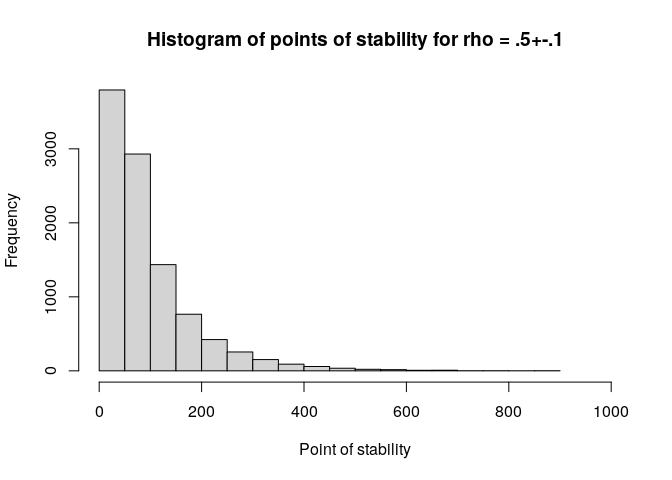
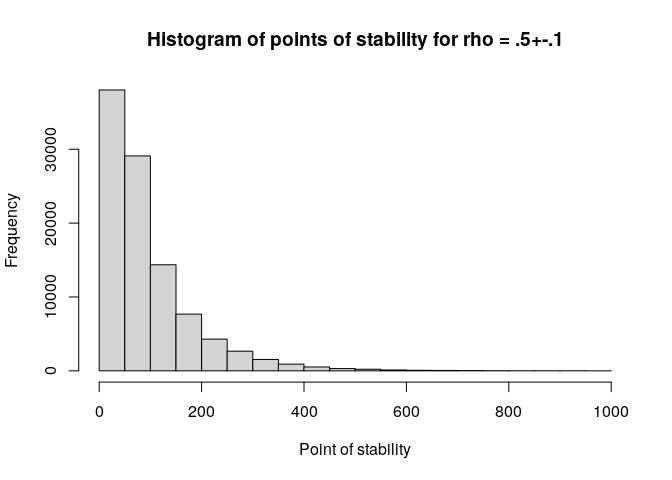
update readme

diff --git a/README.md b/README.md
@@ -88,8 +88,9 @@ set a seed for reproducibility:
 
 ``` r
 library(fastpos)
-#RNGkind("L'Ecuyer-CMRG")
-set.seed(19950521)
+RNGkind("L'Ecuyer-CMRG")
+set.seed(20220812)
+parallel::mc.reset.stream()
 ```
 
 In most cases you will just need the function **find_critical_pos**
@@ -97,33 +98,33 @@ which will give you the critical point of stability for your specific
 parameters.
 
 Let us reproduce Schönbrodt and Perugini’s quite famous and oft-cited
-table of the critical points of stability for a precision of 0.1. We
-reduce the number of studies to 10k and use multicore support (only
-works under GNU/Linux) so that it runs fairly quickly.
+table of the critical points of stability for a precision of 0.1. We set
+the number of studies to 100k and use multicore support (only works
+under GNU/Linux) so that it runs fairly quickly.
 
 ``` r
 n_cores <- parallel::detectCores()
 find_critical_pos(rho = seq(.1, .7, .1), sample_size_max = 1e3,
-                  n_studies = 10e3, n_cores = n_cores)
+                  n_studies = 1e5, n_cores = n_cores)
 #> Warning in find_critical_pos(rho = seq(0.1, 0.7, 0.1), sample_size_max = 1000, : 
-#> 40 simulation[s] did not reach the corridor of stability.
+#> 448 simulation[s] did not reach the corridor of stability.
 #> Increase sample_size_max and rerun the simulation.
 #>   rho_pop pos.80% pos.90% pos.95% sample_size_min sample_size_max lower_limit
-#> 1     0.1   249.0     361  479.00              20            1000         0.0
-#> 2     0.2   238.2     342  446.00              20            1000         0.1
-#> 3     0.3   214.0     309  411.00              20            1000         0.2
-#> 4     0.4   178.0     257  341.00              20            1000         0.3
-#> 5     0.5   143.0     204  271.00              20            1000         0.4
-#> 6     0.6   105.0     151  201.00              20            1000         0.5
-#> 7     0.7    65.0      94  126.05              20            1000         0.6
+#> 1     0.1   257.0     362     478              20            1000         0.0
+#> 2     0.2   244.2     355     467              20            1000         0.1
+#> 3     0.3   213.0     306     403              20            1000         0.2
+#> 4     0.4   182.0     265     352              20            1000         0.3
+#> 5     0.5   142.0     217     288              20            1000         0.4
+#> 6     0.6   108.0     159     209              20            1000         0.5
+#> 7     0.7    64.0     100     134              20            1000         0.6
 #>   upper_limit n_studies n_not_breached precision_absolute precision_relative
-#> 1         0.2     10000             23                0.1                 NA
-#> 2         0.3     10000             13                0.1                 NA
-#> 3         0.4     10000              3                0.1                 NA
-#> 4         0.5     10000              1                0.1                 NA
-#> 5         0.6     10000              0                0.1                 NA
-#> 6         0.7     10000              0                0.1                 NA
-#> 7         0.8     10000              0                0.1                 NA
+#> 1         0.2     1e+05            192                0.1                 NA
+#> 2         0.3     1e+05            192                0.1                 NA
+#> 3         0.4     1e+05              0                0.1                 NA
+#> 4         0.5     1e+05             64                0.1                 NA
+#> 5         0.6     1e+05              0                0.1                 NA
+#> 6         0.7     1e+05              0                0.1                 NA
+#> 7         0.8     1e+05              0                0.1                 NA
 ```
 
 The results are very close to Schönbrodt and Perugini’s table (see
@@ -144,7 +145,7 @@ right?). A rawish approach would be to create a population with
 pop <- create_pop(0.5, 1e6)
 pos <- simulate_pos(x_pop = pop[,1],
                     y_pop = pop[,2],
-                    n_studies = 1e4,
+                    n_studies = 1e5,
                     sample_size_min = 20,
                     sample_size_max = 1e3,
                     replace = T,
@@ -159,8 +160,8 @@ hist(pos, xlim = c(0, 1e3), xlab = c("Point of stability"),
 
 ``` r
 quantile(pos, c(.8, .9, .95), na.rm = T)
-#>   80%   90%   95% 
-#> 146.0 209.1 280.0
+#> 80% 90% 95% 
+#> 144 208 276
 ```
 
 Note that no warning message appears if the corridor is not reached, but
@@ -204,15 +205,14 @@ and the rest of the program worked as for the singlethreaded version.
 
 Unfortunately this solution did not bring any substantial speed
 benefits. Since version 0.5.0 I switched to the parallel package and
-pbapply. This means there is no multicore support for Windows but the
-implementation is simple and shows speed benefits when the number of
-studies or the maximum sample size is large.
+pbmclapply. This means there is no multicore support for Windows but the
+implementation is simple and shows clear speed benefits.
 
-For small simulations the benefits are negligible because fastpos is
-already quite fast and the overhead of sharing work is hard to
-compensate:
+For small simulations there is no speed benefit because fastpos is
+already too fast:
 
 ``` r
+n_cores <- parallel::detectCores()
 onecore <- function() {
   find_critical_pos(0.5, n_studies = 1e4, progress = FALSE)
 }
@@ -222,43 +222,98 @@ multicore <- function() {
 microbenchmark::microbenchmark(onecore(), multicore(), times = 10)
 #> Unit: milliseconds
 #>         expr      min       lq     mean   median       uq      max neval
-#>    onecore() 794.0160 834.3565 915.9605 951.0493 955.0048 1027.643    10
-#>  multicore() 380.2165 403.6292 438.8679 442.7043 475.0725  505.001    10
+#>    onecore() 790.5424 806.0623 880.9228 898.5692 914.1386 995.4131    10
+#>  multicore() 492.5743 507.3975 532.6609 519.9019 551.4526 617.7952    10
 ```
 
-Increasing the number of studies to 100,000 results in larger gains:
+Increasing the number of studies to 1,000,000 makes the speed benefit
+more visible:
 
 ``` r
 onecore <- function() {
-  find_critical_pos(0.5, n_studies = 1e5, progress = FALSE)
+  find_critical_pos(0.5, n_studies = 1e6, progress = FALSE)
 }
 multicore <- function() {
-  find_critical_pos(0.5, n_studies = 1e5, n_cores = n_cores, progress = FALSE)
+  find_critical_pos(0.5, n_studies = 1e6, n_cores = n_cores, progress = FALSE)
 }
 microbenchmark::microbenchmark(onecore(), multicore(), times = 10)
 #> Unit: seconds
-#>         expr      min       lq     mean   median       uq      max neval
-#>    onecore() 5.979656 6.098383 6.135590 6.132114 6.164712 6.325328    10
-#>  multicore() 1.557414 1.590791 1.790834 1.657108 1.716881 2.453932    10
+#>         expr       min        lq     mean   median       uq      max neval
+#>    onecore() 57.639320 58.015838 58.85051 58.97313 59.24430 60.16749    10
+#>  multicore()  9.254999  9.753195 11.80759 10.91989 11.91047 18.94043    10
 ```
 
 The maximum sample size also affects the speed benefit:
 
 ``` r
 onecore <- function() {
-  find_critical_pos(0.5, n_studies = 1e5, sample_size_max = 5e3,
+  find_critical_pos(0.5, n_studies = 1e4, sample_size_max = 1e4,
                     progress = FALSE)
 }
 multicore <- function() {
-  find_critical_pos(0.5, n_studies = 1e5, sample_size_max = 5e3,
-                    n_cores = n_cores - 1, progress = FALSE)
+  find_critical_pos(0.5, n_studies = 1e4, sample_size_max = 1e4,
+                    n_cores = n_cores, progress = FALSE)
 }
 microbenchmark::microbenchmark(onecore(), multicore(), times = 10)
 #> Unit: seconds
-#>         expr      min        lq      mean   median        uq       max neval
-#>    onecore() 26.99386 27.241518 27.630681 27.45023 28.037024 28.485631    10
-#>  multicore()  4.82019  4.989477  5.374248  5.10881  5.860666  6.359141    10
+#>         expr      min       lq     mean   median       uq      max neval
+#>    onecore() 5.578969 5.670123 5.740891 5.733023 5.820454 5.971168    10
+#>  multicore() 1.387514 1.411387 1.660138 1.444922 2.142137 2.184948    10
 ```
+
+Using more than around 10 cores does not seem to bring additional speed
+benefits:
+
+``` r
+cores <- function(n_cores) {
+    bquote(find_critical_pos(0.5, n_studies = 1e5, sample_size_max = 5e3,
+                    n_cores = .(n_cores),
+                    progress = FALSE))
+}
+
+function_list <- lapply(1:n_cores, cores)
+names(function_list) <- 1:n_cores
+mb <- microbenchmark::microbenchmark(list = function_list, times = 10,
+                                     unit = "s")
+mb
+#> Unit: seconds
+#>  expr       min        lq      mean    median        uq       max neval
+#>     1 27.456555 27.570735 27.818499 27.745047 27.998901 28.552284    10
+#>     2 14.386780 14.762170 14.799019 14.846158 14.891730 15.063332    10
+#>     3 10.079521 10.272135 10.398187 10.449643 10.493651 10.690283    10
+#>     4  7.786282  8.043653  8.123207  8.137474  8.174227  8.430836    10
+#>     5  6.394230  6.457601  6.562601  6.559623  6.609138  6.833768    10
+#>     6  5.493741  5.529108  5.677393  5.598711  5.857732  6.020727    10
+#>     7  4.857490  4.957679  5.010991  5.000947  5.095433  5.150672    10
+#>     8  4.501819  4.587342  4.653510  4.633522  4.721233  4.805759    10
+#>     9  4.310806  4.513649  4.535217  4.531089  4.575051  4.703378    10
+#>    10  4.302939  4.430716  4.556707  4.584788  4.648966  4.776502    10
+#>    11  4.355230  4.508450  4.644879  4.641629  4.752381  5.003795    10
+#>    12  4.141649  4.423738  4.629711  4.631150  4.817210  5.073758    10
+#>    13  4.190796  4.631710  4.703205  4.683888  4.884239  4.962240    10
+#>    14  4.389556  4.602093  4.745577  4.769075  4.890196  5.188714    10
+#>    15  4.469471  4.506780  4.713059  4.686050  4.877884  5.059185    10
+#>    16  4.172919  4.647434  4.666889  4.674721  4.853175  4.959688    10
+#>    17  4.396954  4.569385  4.693250  4.604388  4.814465  5.140367    10
+#>    18  4.448788  4.735557  4.902612  4.940298  5.105664  5.359574    10
+#>    19  4.524529  4.860833  4.993857  4.930301  5.044446  5.557180    10
+#>    20  4.903637  4.956342  5.144836  5.080159  5.318339  5.487320    10
+#>    21  4.649297  4.967157  5.164920  5.219511  5.281292  5.579557    10
+#>    22  4.590055  4.900174  5.218636  5.212350  5.616280  5.841419    10
+#>    23  4.735541  5.040456  5.291030  5.239354  5.659753  5.688474    10
+#>    24  4.634694  4.751584  5.039350  5.088603  5.243414  5.608231    10
+#>    25  4.832792  5.021327  5.216380  5.202682  5.397915  5.566497    10
+#>    26  4.510734  4.954355  5.111006  5.107665  5.315212  5.908580    10
+#>    27  5.085392  5.151006  5.395888  5.369852  5.663524  5.772946    10
+#>    28  4.883048  5.207972  5.294213  5.271934  5.550639  5.631980    10
+#>    29  4.838274  5.086868  5.431193  5.409469  5.821201  5.960367    10
+#>    30  4.970278  5.046102  5.434072  5.480559  5.805406  6.055113    10
+#>    31  4.925469  5.105361  5.487184  5.509620  5.662650  6.186354    10
+#>    32  5.014134  5.193149  5.376090  5.405113  5.561297  5.659123    10
+plot(mb)
+```
+
+<img src="man/figures/README-parallel4-1.png" width="100%" />
 
 The test was done on a server with 32 cores. In general, the multicore
 support in fastpos is not perfect because the optimal split of work
@@ -351,29 +406,19 @@ corevol <- function() {
   source("02-analyse.R")
 }
 fastpos <- function() {
-  find_critical_pos(rho = .1, sample_size_max = 1e3, n_studies = 10e3)
+  find_critical_pos(rho = .1, sample_size_max = 1e3, n_studies = 10e3,
+                    progress = FALSE)
 }
 bm <- microbenchmark(corevol = corevol(), fastpos = fastpos(), times = 10,
                      unit = "s")
-#> 
-#> Attache Paket: 'dplyr'
-#> Die folgenden Objekte sind maskiert von 'package:stats':
-#> 
-#>     filter, lag
-#> Die folgenden Objekte sind maskiert von 'package:base':
-#> 
-#>     intersect, setdiff, setequal, union
-#> Lade nötiges Paket: foreach
-#> Lade nötiges Paket: iterators
-#> Lade nötiges Paket: parallel
 bm
 #> Unit: seconds
 #>     expr         min          lq        mean      median          uq
-#>  corevol 365.2412020 366.1631864 368.7407814 369.2972685 370.7415254
-#>  fastpos   0.7788808   0.7887345   0.8018911   0.7970768   0.8193799
+#>  corevol 363.2943526 365.8412867 366.8502931 366.7658715 367.2626313
+#>  fastpos   0.7604255   0.7855696   0.8164049   0.7999461   0.8071823
 #>          max neval
-#>  372.3858468    10
-#>    0.8325055    10
+#>  371.6549927    10
+#>    0.9890917    10
 ```
 
 For the chosen parameters, *fastpos* is about 460 times faster than
